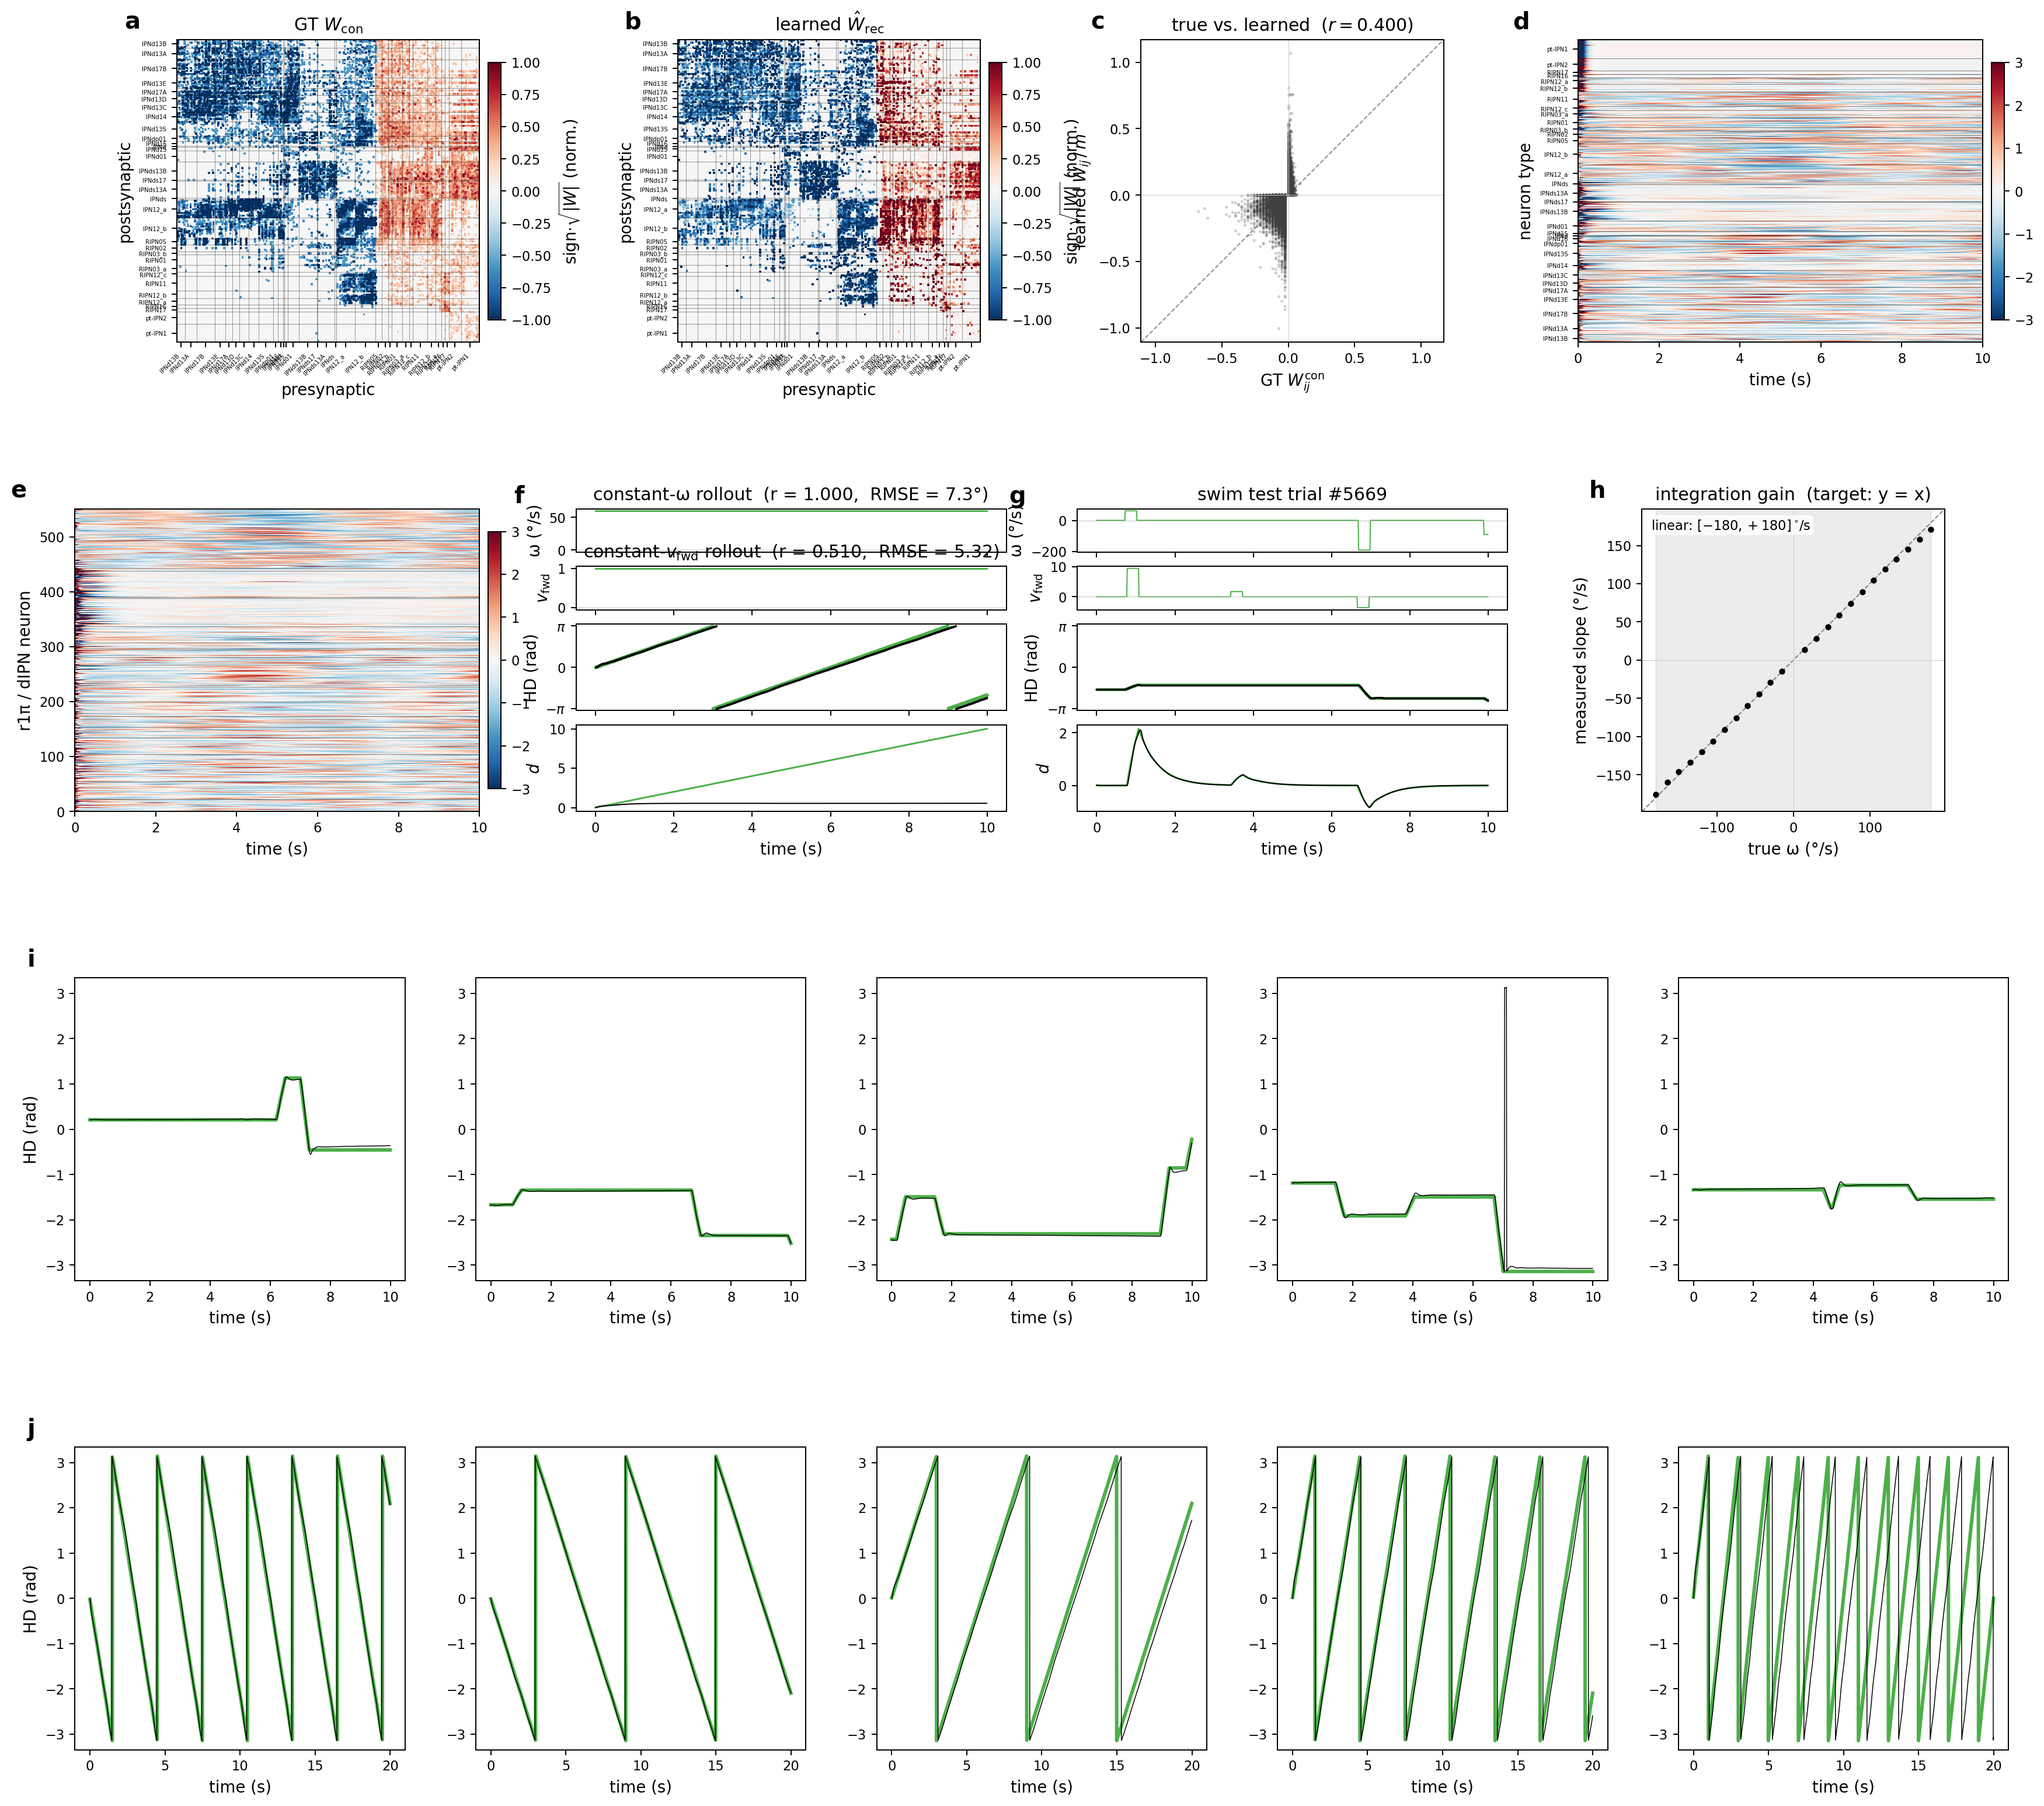
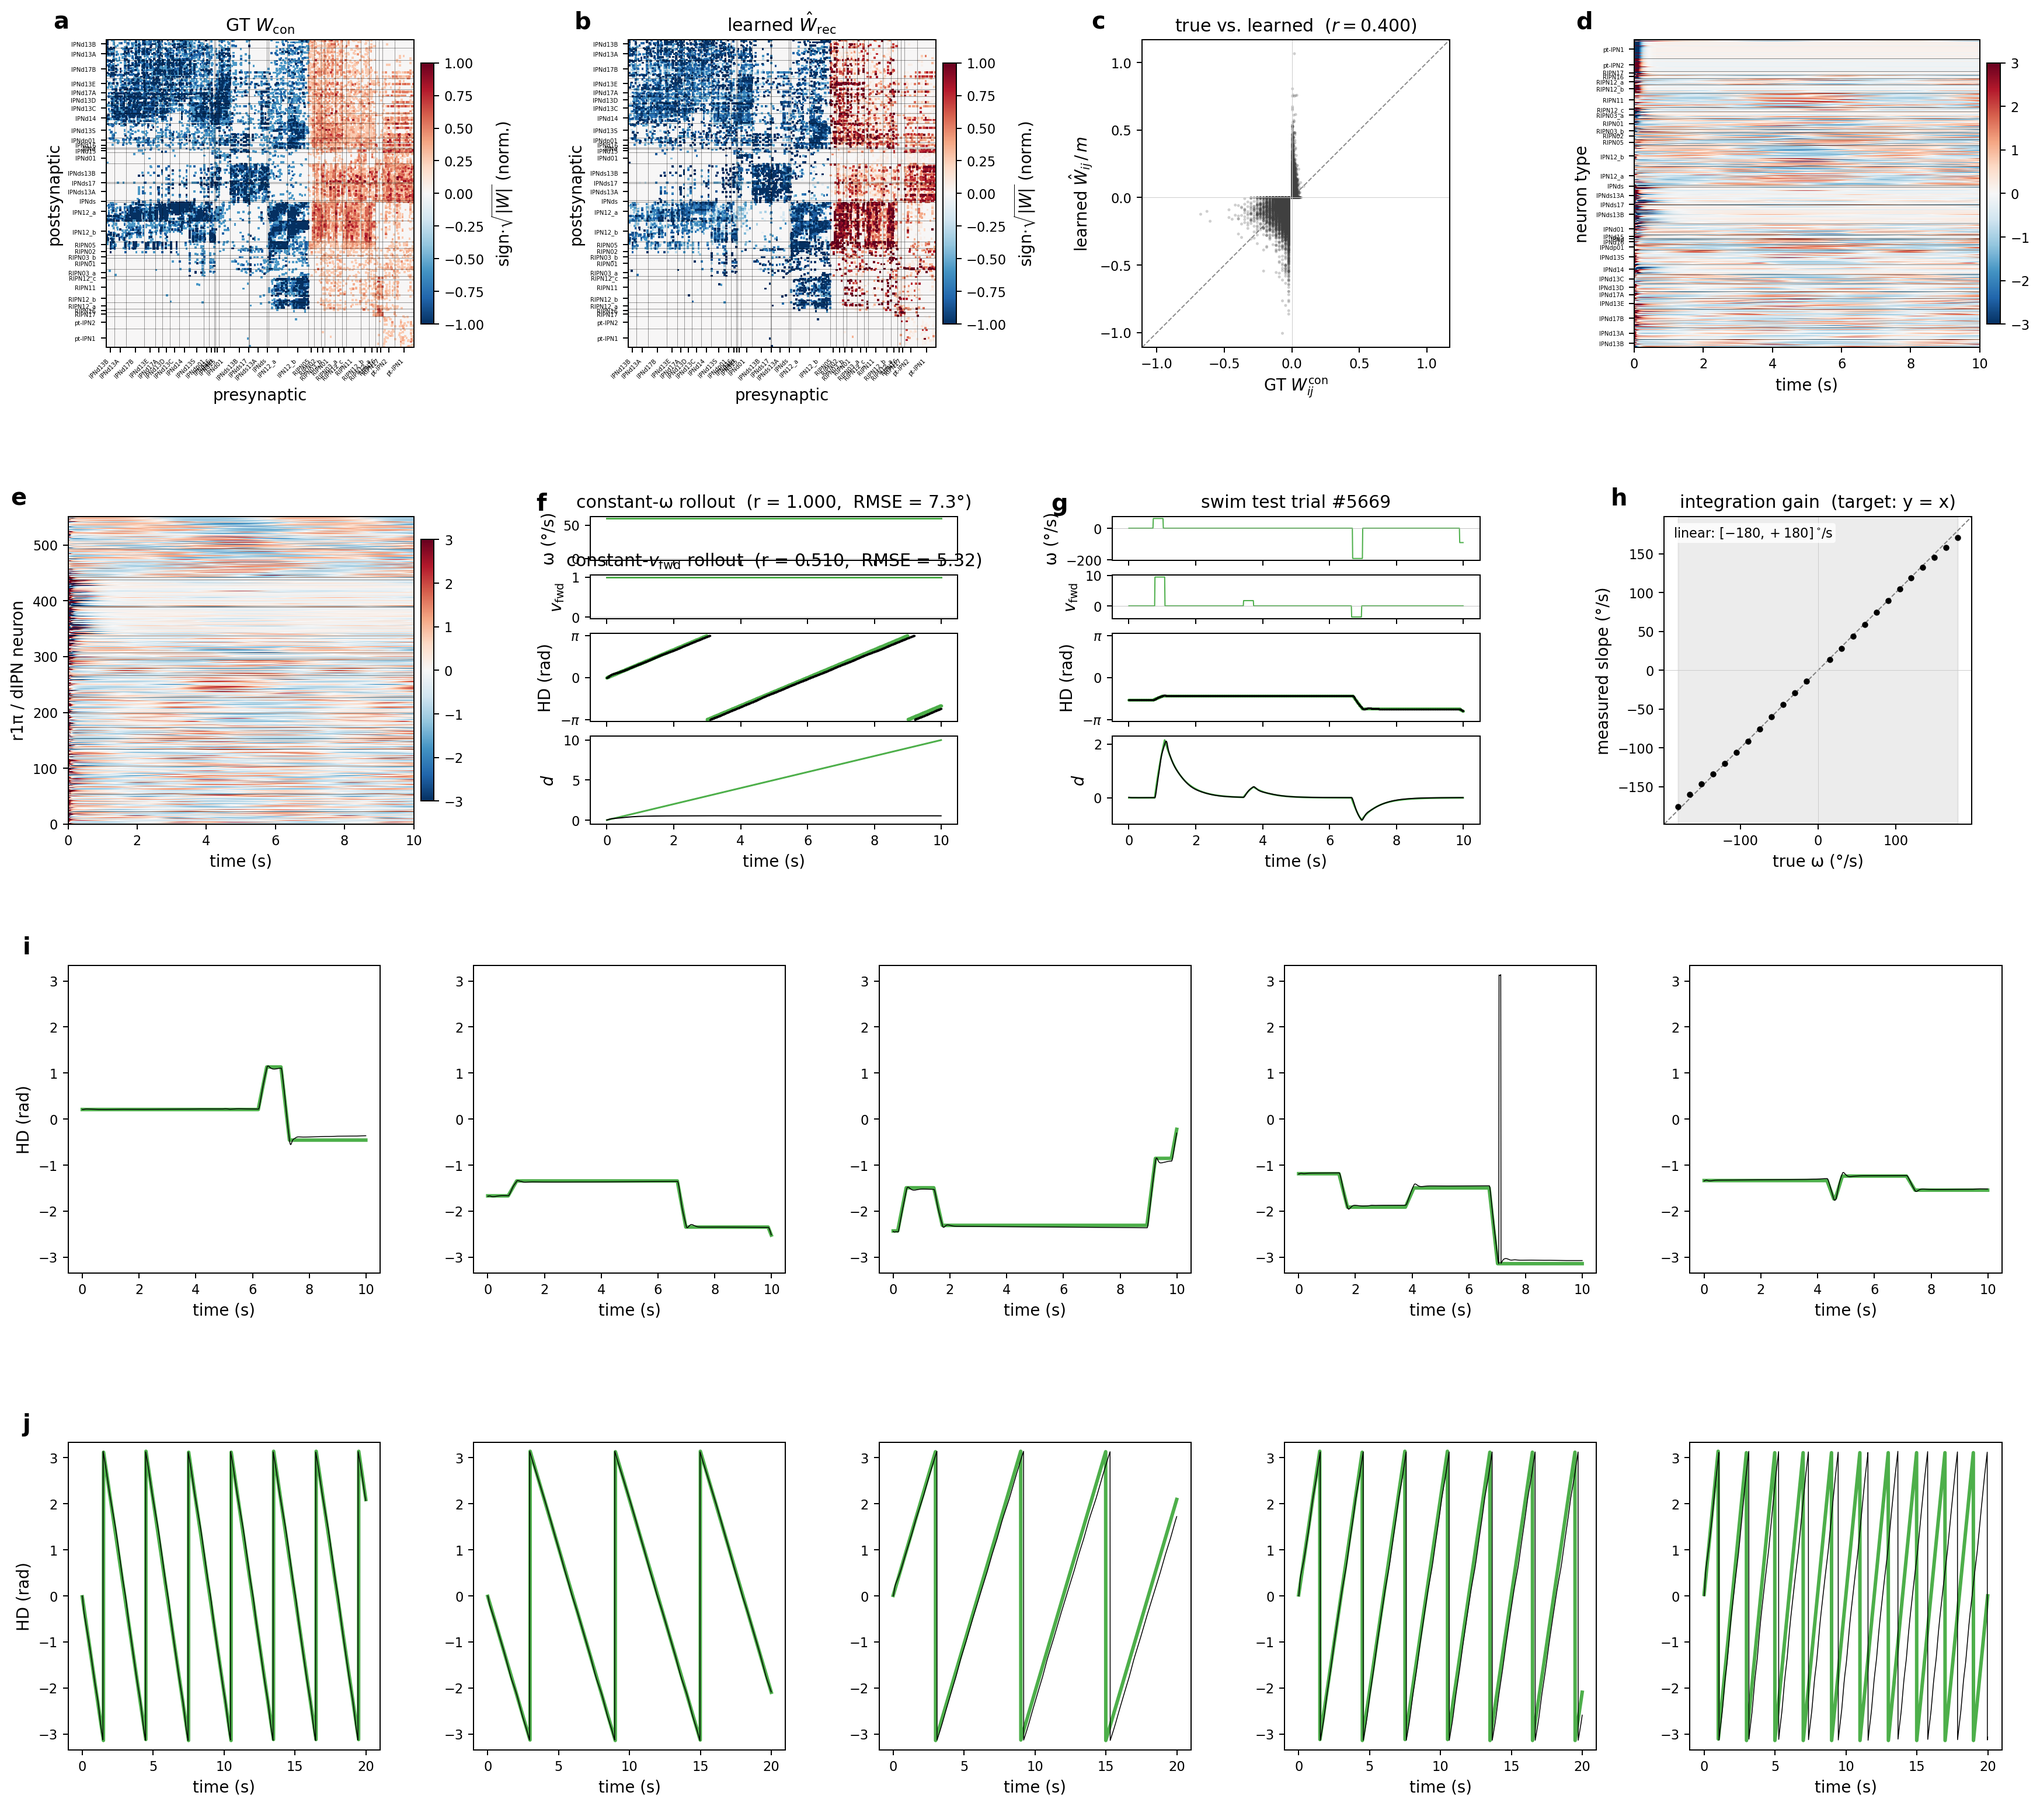
Fix column alignment in evolution figures; remove blank in Figure 1; shrink Fig 11 panel labels
* plot_cx.py: the 4-row evolution figure now uses two nested subgridspecs — one 2×4 for rows a-h, one 2×5 for rows i-j — sharing identical left/right margins. The leftmost panel of every row starts at the same x and the rightmost panel ends at the same x. Old single 4×20 macro grid was misaligning the upper 4-wide rows against the lower 5-wide rows because wspace was applied differently.
* fig_zebrafish_figure1.py: blank space between rows removed by pinning the anatomy axes to the south anchor (so the wide-but-short dorsal brain hugs the bottom of its slot, flush against panels c, d) and reducing height_ratios + hspace.
* fig_zebrafish_mi_partition.py: panel-letter fontsize 20 → 13.

diff --git a/src/connectome_gnn/plot_cx.py b/src/connectome_gnn/plot_cx.py
@@ -2280,12 +2280,26 @@ def plot_cx_evolution(data: dict, out_path: str, *,
     # (lcm(4, 5) = 20): the upper rows span 5 macro columns each, the
     # lower rows span 4 macro columns each.
     if n_rows == 4:
-        gs = fig.add_gridspec(4, 20, hspace=0.55, wspace=2.4,
-                              left=0.05, right=0.97, top=0.97, bottom=0.04)
-        def _ax_top(row, col4):  # 4-column row
-            return fig.add_subplot(gs[row, col4 * 5:(col4 + 1) * 5])
+        # Two nested gridspecs sharing identical left/right margins so
+        # the leftmost column of the 4-wide upper grid starts at the
+        # same x as the leftmost column of the 5-wide lower grid (and
+        # the rightmost column ends at the same x). A single 4×20 macro
+        # grid would let wspace shift the columns relative to each
+        # other.
+        outer = fig.add_gridspec(
+            2, 1, height_ratios=[2.0, 2.0], hspace=0.18,
+            left=0.05, right=0.97, top=0.97, bottom=0.04,
+        )
+        gs_top = outer[0].subgridspec(2, 4, hspace=0.55, wspace=0.42)
+        gs_bot = outer[1].subgridspec(2, 5, hspace=0.55, wspace=0.30)
+        # `gs` kept as an alias so the older n_rows<4 path below still
+        # has something to reference (unused outside the n_rows==4
+        # block).
+        gs = gs_top
+        def _ax_top(row, col4):
+            return fig.add_subplot(gs_top[row, col4])
         def _gs_top(row, col4):
-            return gs[row, col4 * 5:(col4 + 1) * 5]
+            return gs_top[row, col4]
     else:
         gs = fig.add_gridspec(n_rows, 4, hspace=0.55, wspace=0.42,
                               left=0.05, right=0.97, top=0.96, bottom=0.05)
@@ -2380,8 +2394,8 @@ def plot_cx_evolution(data: dict, out_path: str, *,
                         if isinstance(data.get("test_trial"), dict)
                         else data["dt_s"])
 
-        def _ax_bot(row, col5):  # 5-column row
-            return fig.add_subplot(gs[row, col5 * 4:(col5 + 1) * 4])
+        def _ax_bot(row, col5):  # row is 0 (row i) or 1 (row j)
+            return fig.add_subplot(gs_bot[row, col5])
 
         # ---- Row i: random held-out trials -------------------------------
         u_show = random_trials.get("u")
@@ -2393,7 +2407,7 @@ def plot_cx_evolution(data: dict, out_path: str, *,
             T_r = y_true_show.shape[1]
             t_r = np.arange(T_r) * dt_test
             for col in range(min(n_show, y_true_show.shape[0])):
-                ax = _ax_bot(2, col)
+                ax = _ax_bot(0, col)
                 if kind == "hd":
                     true_hd = np.arctan2(y_true_show[col, :, 1],
                                           y_true_show[col, :, 0])
@@ -2431,7 +2445,7 @@ def plot_cx_evolution(data: dict, out_path: str, *,
         # ---- Row j: deterministic constant-input sweeps -------------------
         if sweep:
             for col, item in enumerate(sweep[:n_show]):
-                ax = _ax_bot(3, col)
+                ax = _ax_bot(1, col)
                 om, vf, ro = item
                 T_s = int(ro.get("n_steps", len(ro.get("u", []))))
                 t_s = np.arange(T_s) * dt_test

diff --git a/figures/zebrafish/fig_zebrafish_figure1.py b/figures/zebrafish/fig_zebrafish_figure1.py
@@ -56,13 +56,16 @@ def build_figure(out_path, anatomy_dir, extra_anatomy_dirs=(),
     print(f"loaded {len(nl)} neurons, {len(rois)} ROI meshes, "
           f"{sum(len(v) for v in soma_meshes_by_type.values())} soma meshes")
 
-    fig = plt.figure(figsize=(14.0, 10.0), facecolor=background)
-    # 2×2 layout: (a, b) anatomy on top (taller — the dorsal brain view
-    # is wide and benefits from extra vertical room to fill its column),
-    # (c, d) circuit diagrams below.
+    fig = plt.figure(figsize=(14.0, 8.5), facecolor=background)
+    # 2×2 layout: (a, b) anatomy on top, (c, d) circuit diagrams below.
+    # The dorsal brain view is wide and short; using set_anchor("N")
+    # below pins each anatomy axes to the top of its slot so the
+    # vertical space the wide-but-short brain doesn't fill is reclaimed
+    # via tight bbox + small hspace, eliminating the blank band between
+    # rows.
     gs = GridSpec(2, 2, figure=fig,
-                  height_ratios=[6.0, 4.0],
-                  hspace=0.04, wspace=0.02,
+                  height_ratios=[4.2, 4.0],
+                  hspace=0.0, wspace=0.02,
                   left=0.01, right=0.88, top=0.99, bottom=0.02)
     ax_a = fig.add_subplot(gs[0, 0])
     ax_b = fig.add_subplot(gs[0, 1])
@@ -71,6 +74,12 @@ def build_figure(out_path, anatomy_dir, extra_anatomy_dirs=(),
 
     for ax in (ax_a, ax_b, ax_c, ax_d):
         ax.set_facecolor(background)
+    # Pin the anatomy axes to the bottom of their row so the wide,
+    # short dorsal brain view sits flush against panels c, d below
+    # (no big blank between rows when the data aspect leaves vertical
+    # space).
+    ax_a.set_anchor("S")
+    ax_b.set_anchor("S")
 
     draw_anatomy_panels(
         ax_a, ax_b, nl, types, rois,

diff --git a/figures/zebrafish/fig_zebrafish_mi_partition.py b/figures/zebrafish/fig_zebrafish_mi_partition.py
@@ -289,7 +289,7 @@ def main():
     ax.tick_params(labelsize=11)
     ax.legend(fontsize=10, loc="upper right", frameon=False)
     ax.text(-0.10, 1.04, "a", transform=ax.transAxes,
-            fontsize=20, fontweight="bold")
+            fontsize=13, fontweight="bold")
 
     # (b) edge-block matrix
     ax = axes[1]
@@ -311,7 +311,7 @@ def main():
                  fontsize=11)
     cb.ax.tick_params(labelsize=10)
     ax.text(-0.10, 1.04, "b", transform=ax.transAxes,
-            fontsize=20, fontweight="bold")
+            fontsize=13, fontweight="bold")
 
     plt.tight_layout()
     fig.savefig(args.out, dpi=170, bbox_inches="tight")
